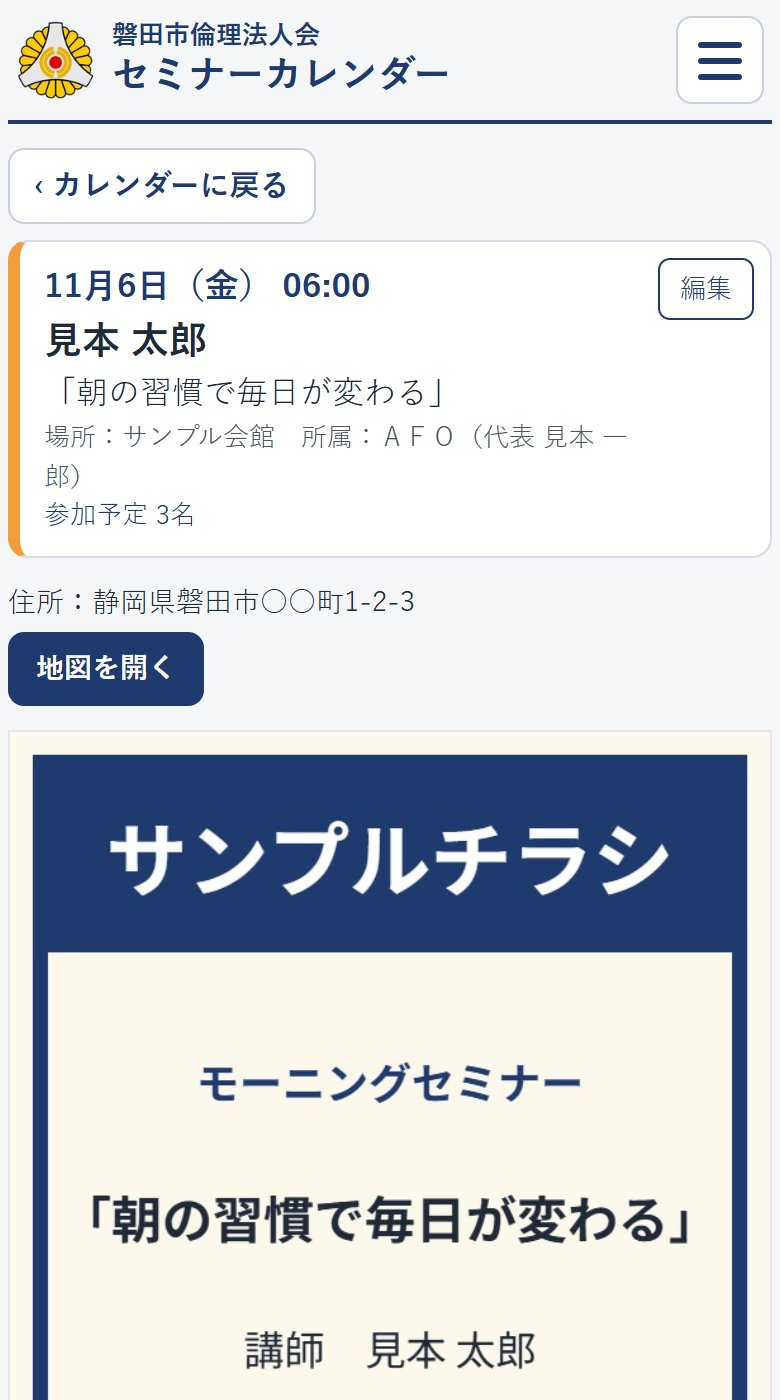
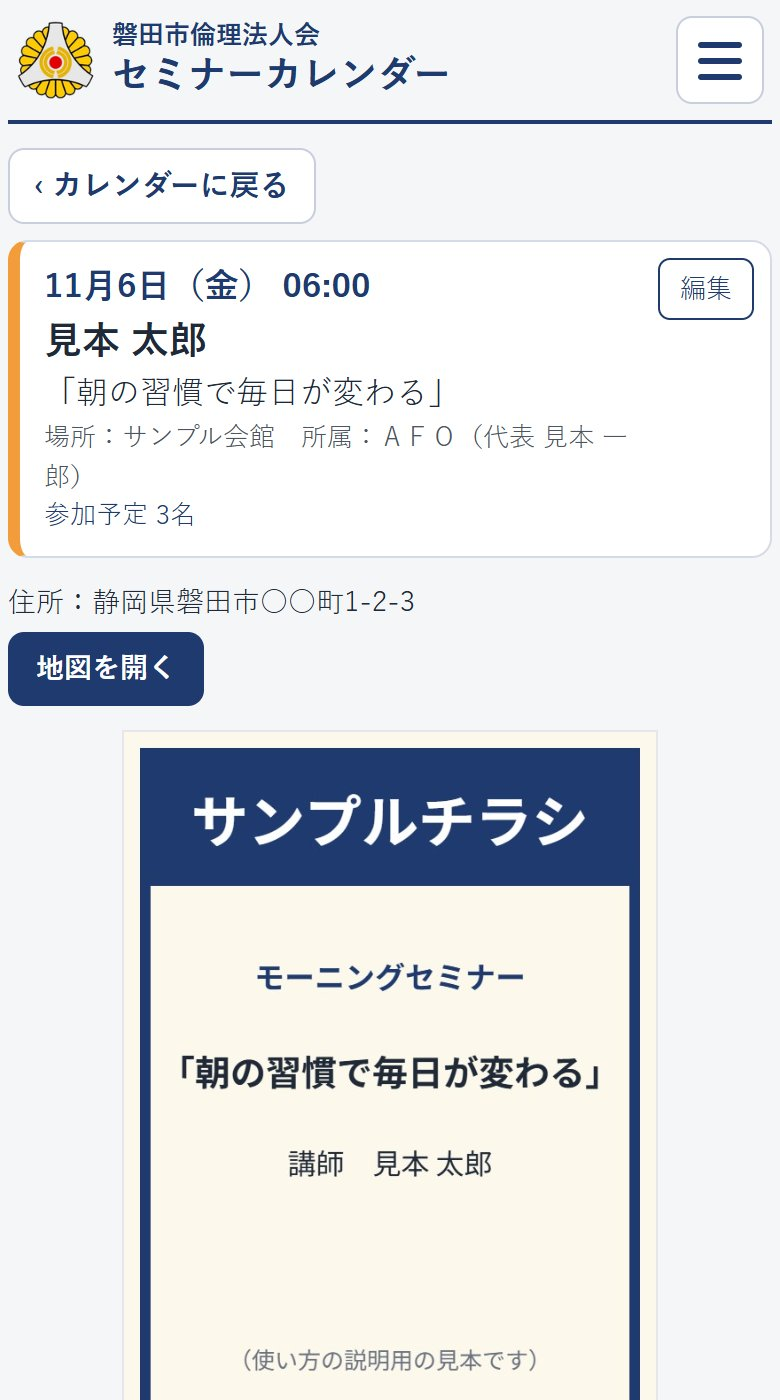
v6.1: 詳細ページのチラシを小さく（幅は本文の70%まで・高さは画面の55%まで、中央、縦横比はそのまま）
- 読み込み中の枠も同じ大きさ・位置（チラシが入る前後で申込フォームが動かない）
- 「チラシ準備中」の枠・他の部分は変えない。画像のデータも同じ
- 使い方の画像 02・03・05・11・12 を撮り直し。?v=11

Changed region(s): [[0.0308, 0.5221, 0.9846, 1.0], [0.3077, 0.9521, 0.7077, 0.9829]]

diff --git a/style.css b/style.css
@@ -142,10 +142,15 @@ a.link-btn {
 .card .theme, .detail-head .theme { font-size: 16px; overflow-wrap: anywhere; }
 .card .meta, .detail-head .meta { font-size: 13px; color: #4b5563; overflow-wrap: anywhere; }
 .card .count, .detail-head .count { font-size: 13px; color: #1e3a6e; }
-.flyer { width: 100%; height: auto; display: block; margin-top: 12px; border: 1px solid #e5e7eb; }
+/* 詳細ページのチラシ（v6.1）：幅は本文の 70% まで・高さは画面の 55% まで、中央。縦横比は保つ（J23 の2つの数字） */
+.flyer { display: block; width: auto; height: auto; max-width: 70%; max-height: 55vh; margin: 12px auto 0; border: 1px solid #e5e7eb; }
 .no-flyer { margin-top: 12px; padding: 24px 8px; text-align: center; background: #f3f4f6; color: #6b7280; border-radius: 6px; }
 /* チラシの取得中（v5）：チラシ（A4 縦）とだいたい同じ高さの枠を先に取り、届いたときに下の申込フォームが大きく動かないように */
-.no-flyer.loading { aspect-ratio: 210 / 297; display: flex; align-items: center; justify-content: center; }
+.no-flyer.loading {
+  aspect-ratio: 210 / 297; display: flex; align-items: center; justify-content: center;
+  /* v6.1：A4 縦のチラシと同じ大きさ・位置（幅 70% まで、高さ 55vh まで＝幅は 55vh×210/297 まで、中央） */
+  width: min(70%, calc(55vh * 210 / 297)); margin: 12px auto 0; padding: 0 8px;
+}
 /* 終了したカード（v6）：薄い灰色の地、文字は灰色（地とのコントラスト比 4.5:1 以上）、左の帯も薄く */
 .card.card-ended { background: #f3f4f6; border-color: #e1e4e8; }
 .card.card-ended.zoom { border-left-color: #a8cdfa; }

diff --git a/index.html b/index.html
@@ -8,7 +8,7 @@
 <!-- v5：API のサーバーへの接続を先に始めておく（fetch は資格情報なしの CORS なので crossorigin を付ける） -->
 <link rel="preconnect" href="https://script.google.com" crossorigin>
 <link rel="preconnect" href="https://script.googleusercontent.com" crossorigin>
-<link rel="stylesheet" href="style.css?v=10">
+<link rel="stylesheet" href="style.css?v=11">
 <script src="config.js"></script>
 <script>
 // v5：最初の要求（今月の getMonth。#s=… なら getDetail と getFlyer）を app.js の読み込みを待たずに始める。
@@ -216,6 +216,6 @@
   </section>
 </div>
 
-<script src="app.js?v=10"></script>
+<script src="app.js?v=11"></script>
 </body>
 </html>
